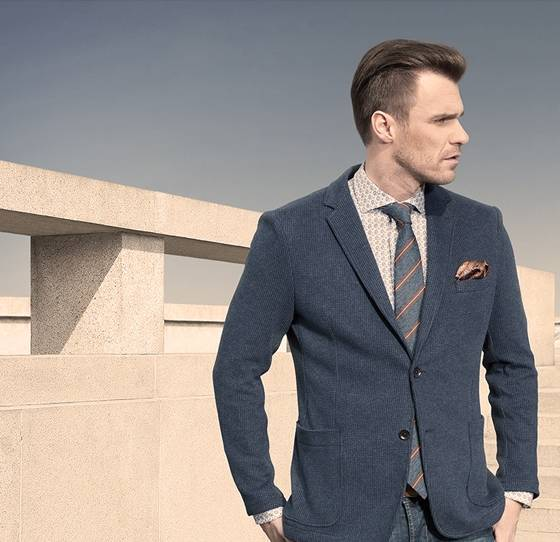
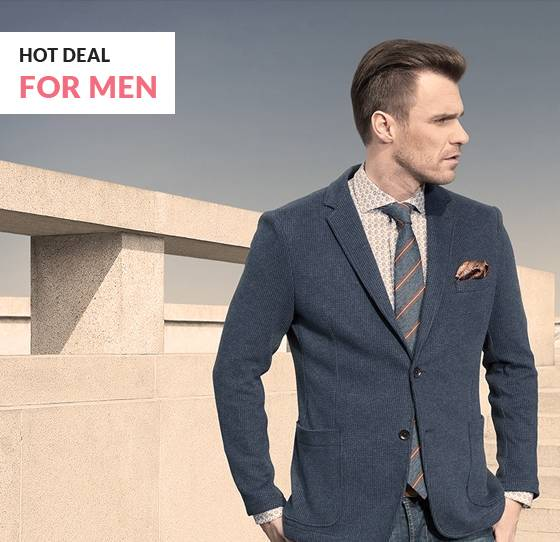
[fix] - Доработка главной страницы

Changed region(s): [[0.0, 0.059, 0.3339, 0.2362]]

diff --git a/src/jsx/Header.jsx b/src/jsx/Header.jsx
@@ -16,8 +16,8 @@ function Header() {
     <header className="header bg-light">
       <div className="container-xxl">
         {/* MAIN */}
-        <nav className="navbar">
-          <div className="container-fluid flex-nowrap">
+        <nav className="navbar navbar-expand-lg">
+          <div className="container-fluid">
             {/* LOGO */}
             <a className="navbar-brand" href="#">
               <img className='me-2' src={logo} alt="logo" width="59" height="51" />
@@ -25,60 +25,67 @@ function Header() {
                 <strong className='text-danger'>D</strong>
               </span>
             </a>
+            <button class="navbar-toggler" type="button" data-bs-toggle="collapse" data-bs-target="#navbarSupportedContent" aria-controls="navbarSupportedContent" aria-expanded="false" aria-label="Переключатель навигации">
+            <span class="navbar-toggler-icon"></span>
+            </button>
+            {/* ***BURGER-MENU*** */}
             {/* Поиск */}
-            <form className="input-group w-auto">
-              <select className="form-select bg-light" aria-label="Browse" defaultValue="browse">
-                <option value="browse" disabled>Browse...</option>
-                {
-                    dataKeys.map((caption, index) => {
-                      return (
-                        <Fragment key={index}>
-                          <option value={caption} disabled className="text-center text-uppercase fs-5 fw-semibold lh-lg">{caption}</option>
-                          {searchDropdown[caption].map((item, index) => {
-                            return(
-                              <option value={item} key={index}>{item}</option>
-                            )
-                          })}
-                        </Fragment>
-                      )
-                    })
-                  }
-              </select>
-              <input className="form-control" type="search" placeholder="Search for Item..." aria-label="Search" />
-              <button className="btn btn-secondary" type="submit"><i className="bi bi-search" /></button>
-            </form>
-            {/* Cart Account */}
-            <div className='d-flex align-items-center'>
-              <a className="fs-2 link-dark" href="#"><i className="bi bi-cart2" /></a>
-              <div className="dropdown ms-4">
-                <button className="btn btn-danger dropdown-toggle" type="button" id="dropdownAccount" data-bs-toggle="dropdown" aria-expanded="false" data-bs-auto-close="outside">
-                  My Account
-                </button>
-                <form className="dropdown-menu p-3">
-                  <div className="mb-3">
-                    <label htmlFor="exampleDropdownFormEmail2" className="form-label">E-mail</label>
-                    <input type="email" className="form-control" id="exampleDropdownFormEmail2" placeholder="email@example.com" />
-                  </div>
-                  <div className="mb-3">
-                    <label htmlFor="exampleDropdownFormPassword2" className="form-label">Password</label>
-                    <input type="password" className="form-control" id="exampleDropdownFormPassword2" placeholder="Password" />
-                  </div>
-                  <div className="mb-3">
-                    <div className="form-check">
-                      <input type="checkbox" className="form-check-input" id="dropdownCheck2" />
-                      <label className="form-check-label" htmlFor="dropdownCheck2">
-                        Stay signed in
-                      </label>
+            <div class="collapse navbar-collapse justify-content-end" id="navbarSupportedContent">
+              <form className="input-group w-auto mx-auto my-4 my-lg-auto">
+                <select className="form-select bg-light" aria-label="Browse" defaultValue="browse">
+                  <option value="browse" disabled>Browse...</option>
+                  {
+                      dataKeys.map((caption, index) => {
+                        return (
+                          <Fragment key={index}>
+                            <option value={caption} disabled className="text-center text-uppercase fs-5 fw-semibold lh-lg">{caption}</option>
+                            {searchDropdown[caption].map((item, index) => {
+                              return(
+                                <option value={item} key={index}>{item}</option>
+                              )
+                            })}
+                          </Fragment>
+                        )
+                      })
+                    }
+                </select>
+                <input className="form-control" type="search" placeholder="Search for Item..." aria-label="Search" />
+                <button className="btn btn-secondary" type="submit"><i className="bi bi-search" /></button>
+              </form>
+              {/* Cart Account */}
+              <div className='d-flex align-items-center justify-content-between'>
+                <a className="fs-2 link-dark" href="#"><i className="bi bi-cart2" /></a>
+                <div className="dropdown ms-4">
+                  <button className="btn btn-danger dropdown-toggle" type="button" id="dropdownAccount" data-bs-toggle="dropdown" aria-expanded="false" data-bs-auto-close="outside">
+                    My Account
+                  </button>
+                  <form className="dropdown-menu p-3">
+                    <div className="mb-3">
+                      <label htmlFor="exampleDropdownFormEmail2" className="form-label">E-mail</label>
+                      <input type="email" className="form-control" id="exampleDropdownFormEmail2" placeholder="email@example.com" />
                     </div>
-                  </div>
-                  <button type="submit" className="btn btn-secondary">Log In</button>
-                  <div className="dropdown-divider"></div>
-                  <a className="dropdown-item" href="#">Forgot your password?</a>
-                  <div className="dropdown-divider"></div>
-                  <a className="dropdown-item" href="#">Register!</a>
-                </form>
+                    <div className="mb-3">
+                      <label htmlFor="exampleDropdownFormPassword2" className="form-label">Password</label>
+                      <input type="password" className="form-control" id="exampleDropdownFormPassword2" placeholder="Password" />
+                    </div>
+                    <div className="mb-3">
+                      <div className="form-check">
+                        <input type="checkbox" className="form-check-input" id="dropdownCheck2" />
+                        <label className="form-check-label" htmlFor="dropdownCheck2">
+                          Stay signed in
+                        </label>
+                      </div>
+                    </div>
+                    <button type="submit" className="btn btn-secondary">Log In</button>
+                    <div className="dropdown-divider"></div>
+                    <a className="dropdown-item" href="#">Forgot your password?</a>
+                    <div className="dropdown-divider"></div>
+                    <a className="dropdown-item" href="#">Register!</a>
+                  </form>
+                </div>
               </div>
             </div>
+            {/* *** *** */}
           </div>
         </nav>
         {/* MENU */}

diff --git a/src/jsx/Subscribe.jsx b/src/jsx/Subscribe.jsx
@@ -2,6 +2,8 @@ import React from 'react'
 
 import '../css/Subscribe.css'
 
+import subscribe_photo from '../img/subscribe/subscribe_slide_photo.png'
+
 function Subscribe() {
   return (
     <section className="subscribe container-fluid mt-5 p-0">
@@ -12,24 +14,24 @@ function Subscribe() {
             <div id="carouselExampleIndicators" class="carousel slide" data-bs-ride="carousel">
               <div class="carousel-inner">
                 <div class="carousel-item active">
-                  <img src="../img/subscribe/subscribe_slide_photo.png" class="d-block position-absolute top-0 left-0" alt="photo_account" />
-                  <div className="col-8 col-lg-10 ms-auto">
+                  <img src={subscribe_photo} class="d-block position-absolute top-0 left-0" alt="photo_account" />
+                  <div className="col-7 col-lg-10 ms-auto">
                     <p><em>“Vestibulum quis porttitor dui! Quisque viverra nunc mi, a pulvinar purus condimentum a. Aliquam condimentum mattis neque sed pretium”</em></p>
                     <p className='text-danger'><b>Bin Burhan</b></p>
                     <small>Dhaka, Bd</small>
                   </div>
                 </div>
                 <div class="carousel-item">
-                  <img src="../img/subscribe/subscribe_slide_photo.png" class="d-block position-absolute top-0 left-0" alt="photo_account" />
-                  <div className="col-10 ms-auto">
+                  <img src={subscribe_photo} class="d-block position-absolute top-0 left-0" alt="photo_account" />
+                  <div className="col-7 col-lg-10 ms-auto">
                     <p><em>“Vestibulum quis porttitor dui! Quisque viverra nunc mi, a pulvinar purus condimentum a. Aliquam condimentum mattis neque sed pretium”</em></p>
                     <p className='text-danger'><b>Bin Burhan</b></p>
                     <small>Dhaka, Bd</small>
                   </div>
                 </div>
                 <div class="carousel-item">
-                  <img src="../img/subscribe/subscribe_slide_photo.png" class="d-block position-absolute top-0 left-0" alt="photo_account" />
-                  <div className="col-10 ms-auto">
+                  <img src={subscribe_photo} class="d-block position-absolute top-0 left-0" alt="photo_account" />
+                  <div className="col-7 col-lg-10 ms-auto">
                     <p><em>“Vestibulum quis porttitor dui! Quisque viverra nunc mi, a pulvinar purus condimentum a. Aliquam condimentum mattis neque sed pretium”</em></p>
                     <p className='text-danger'><b>Bin Burhan</b></p>
                     <small>Dhaka, Bd</small>
@@ -47,8 +49,8 @@ function Subscribe() {
           <div className="col text-center text-uppercase pt-4 pt-lg-5 px-5">
             <h4>Subscribe</h4>
             <p className='m-0'>FOR OUR NEWLETTER and PROMOTION</p>
-            <div class="input-group w-auto mt-4 mx-5">
-              <input type="text" class="form-control bg-light" placeholder="Enter Your Email" aria-label="Enter Your Email" aria-describedby="btnGroupAddon" />
+            <div class="input-group w-auto mt-4 mx-5 flex-wrap">
+              <input type="text" class="form-control bg-light input_email" placeholder="Enter Your Email" aria-label="Enter Your Email" aria-describedby="btnGroupAddon" />
               <button type="button" class="btn btn-danger">Subscribe</button>
             </div>
           </div>

diff --git a/src/jsx/Category.jsx b/src/jsx/Category.jsx
@@ -13,55 +13,19 @@ function Category() {
       <div class="row row-cols-1 row-cols-md-2 g-4">
         {/* HOT DEAL FOR MEN */}
         <div class="col">
-          <div class="card text-bg-light">
-            <img src={category_1} class="card-img" alt="HOT DEAL FOR MEN" />
-            <div class="card-img-overlay">
-              <div className='card_canvas'>
-                <span className='card_text'>HOT DEAL</span>
-                <br />
-                <span className='card_subtext'>FOR MEN</span>
-              </div>
-            </div>
-          </div>
+          <img src={category_1} class="card-img" alt="HOT DEAL FOR MEN" />
         </div>
         {/* new arrivals FOR kids */}
         <div class="col">
-          <div class="card text-bg-light">
-            <img src={category_4} class="card-img" alt="new arrivals FOR kids" />
-            <div class="card-img-overlay">
-              <div className='card_canvas'>
-                <span className='card_text'>new arrivals</span>
-                <br />
-                <span className='card_subtext'>FOR kids</span>
-              </div>
-            </div>
-          </div>
+          <img src={category_4} class="card-img" alt="new arrivals FOR kids" />
         </div>
         {/* 30% offer women */}
         <div class="col">
-          <div class="card text-bg-light">
-            <img src={category_2} class="card-img" alt="30% offer women" />
-            <div class="card-img-overlay">
-              <div className='card_canvas'>
-                <span className='card_text'>30% offer</span>
-                <br />
-                <span className='card_subtext'>women</span>
-              </div>
-            </div>
-          </div>
+          <img src={category_2} class="card-img" alt="30% offer women" />
         </div>
         {/* LUXIROUS & trendy ACCESORIES */}
         <div class="col">
-          <div class="card text-bg-light">
-            <img src={category_3} class="card-img" alt="LUXIROUS & trendy ACCESORIES" />
-            <div class="card-img-overlay">
-              <div className='card_canvas'>
-                <span className='card_text'>LUXIROUS & trendy</span>
-                <br />
-                <span className='card_subtext'>ACCESORIES</span>
-              </div>
-            </div>
-          </div>
+          <img src={category_3} class="card-img" alt="LUXIROUS & trendy ACCESORIES" />
         </div>
       </div>
     </section>

diff --git a/src/css/Subscribe.css b/src/css/Subscribe.css
@@ -8,8 +8,14 @@
 
 .subscribe {
   background-image: url(../img/subscribe/subscribe_bg.jpg);
+  background-repeat: no-repeat;
+  background-size: cover;
 }
 
 .subscribe_bg_img {
   z-index: -1;
+}
+
+.input_email {
+  min-width: 150px !important;
 }
